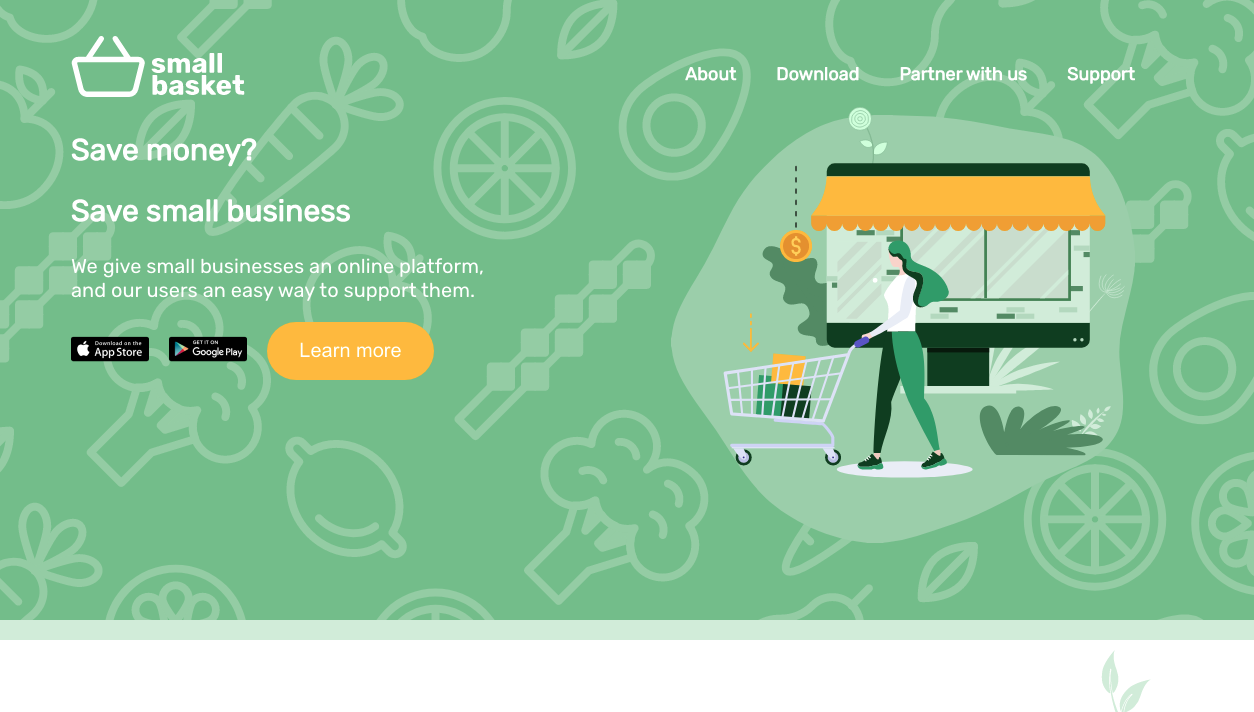
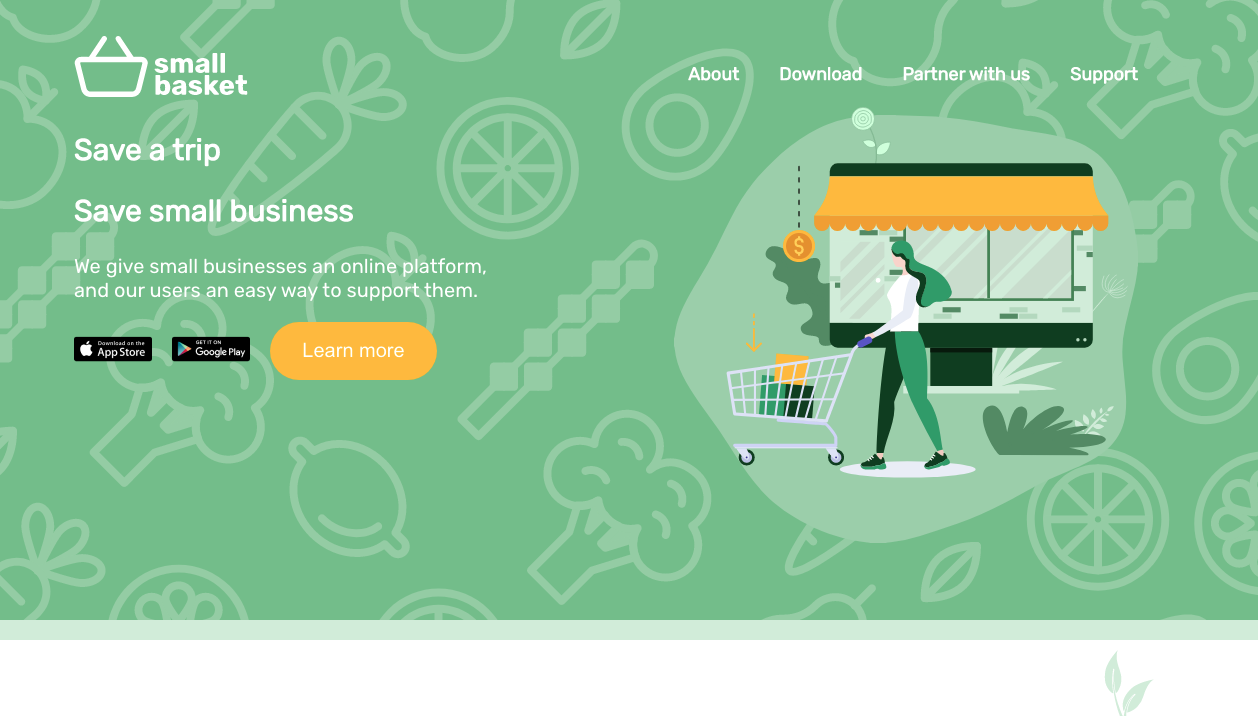
docs: Updates to readme.md

diff --git a/src/components/user_side/Header.js b/src/components/user_side/Header.js
@@ -9,7 +9,7 @@ export default function Header(props) {
     <section className="user_side-header-div_1">
       <div className="user_side-header-div_2">
         <div className="user_side-header-div_3">
-          <h1>Save money? </h1>
+          <h1>Save a trip</h1>
           <h1>Save small business</h1>
           <p>We give small businesses an online platform,<br/> and our users an easy way to support them.</p>
         </div>
